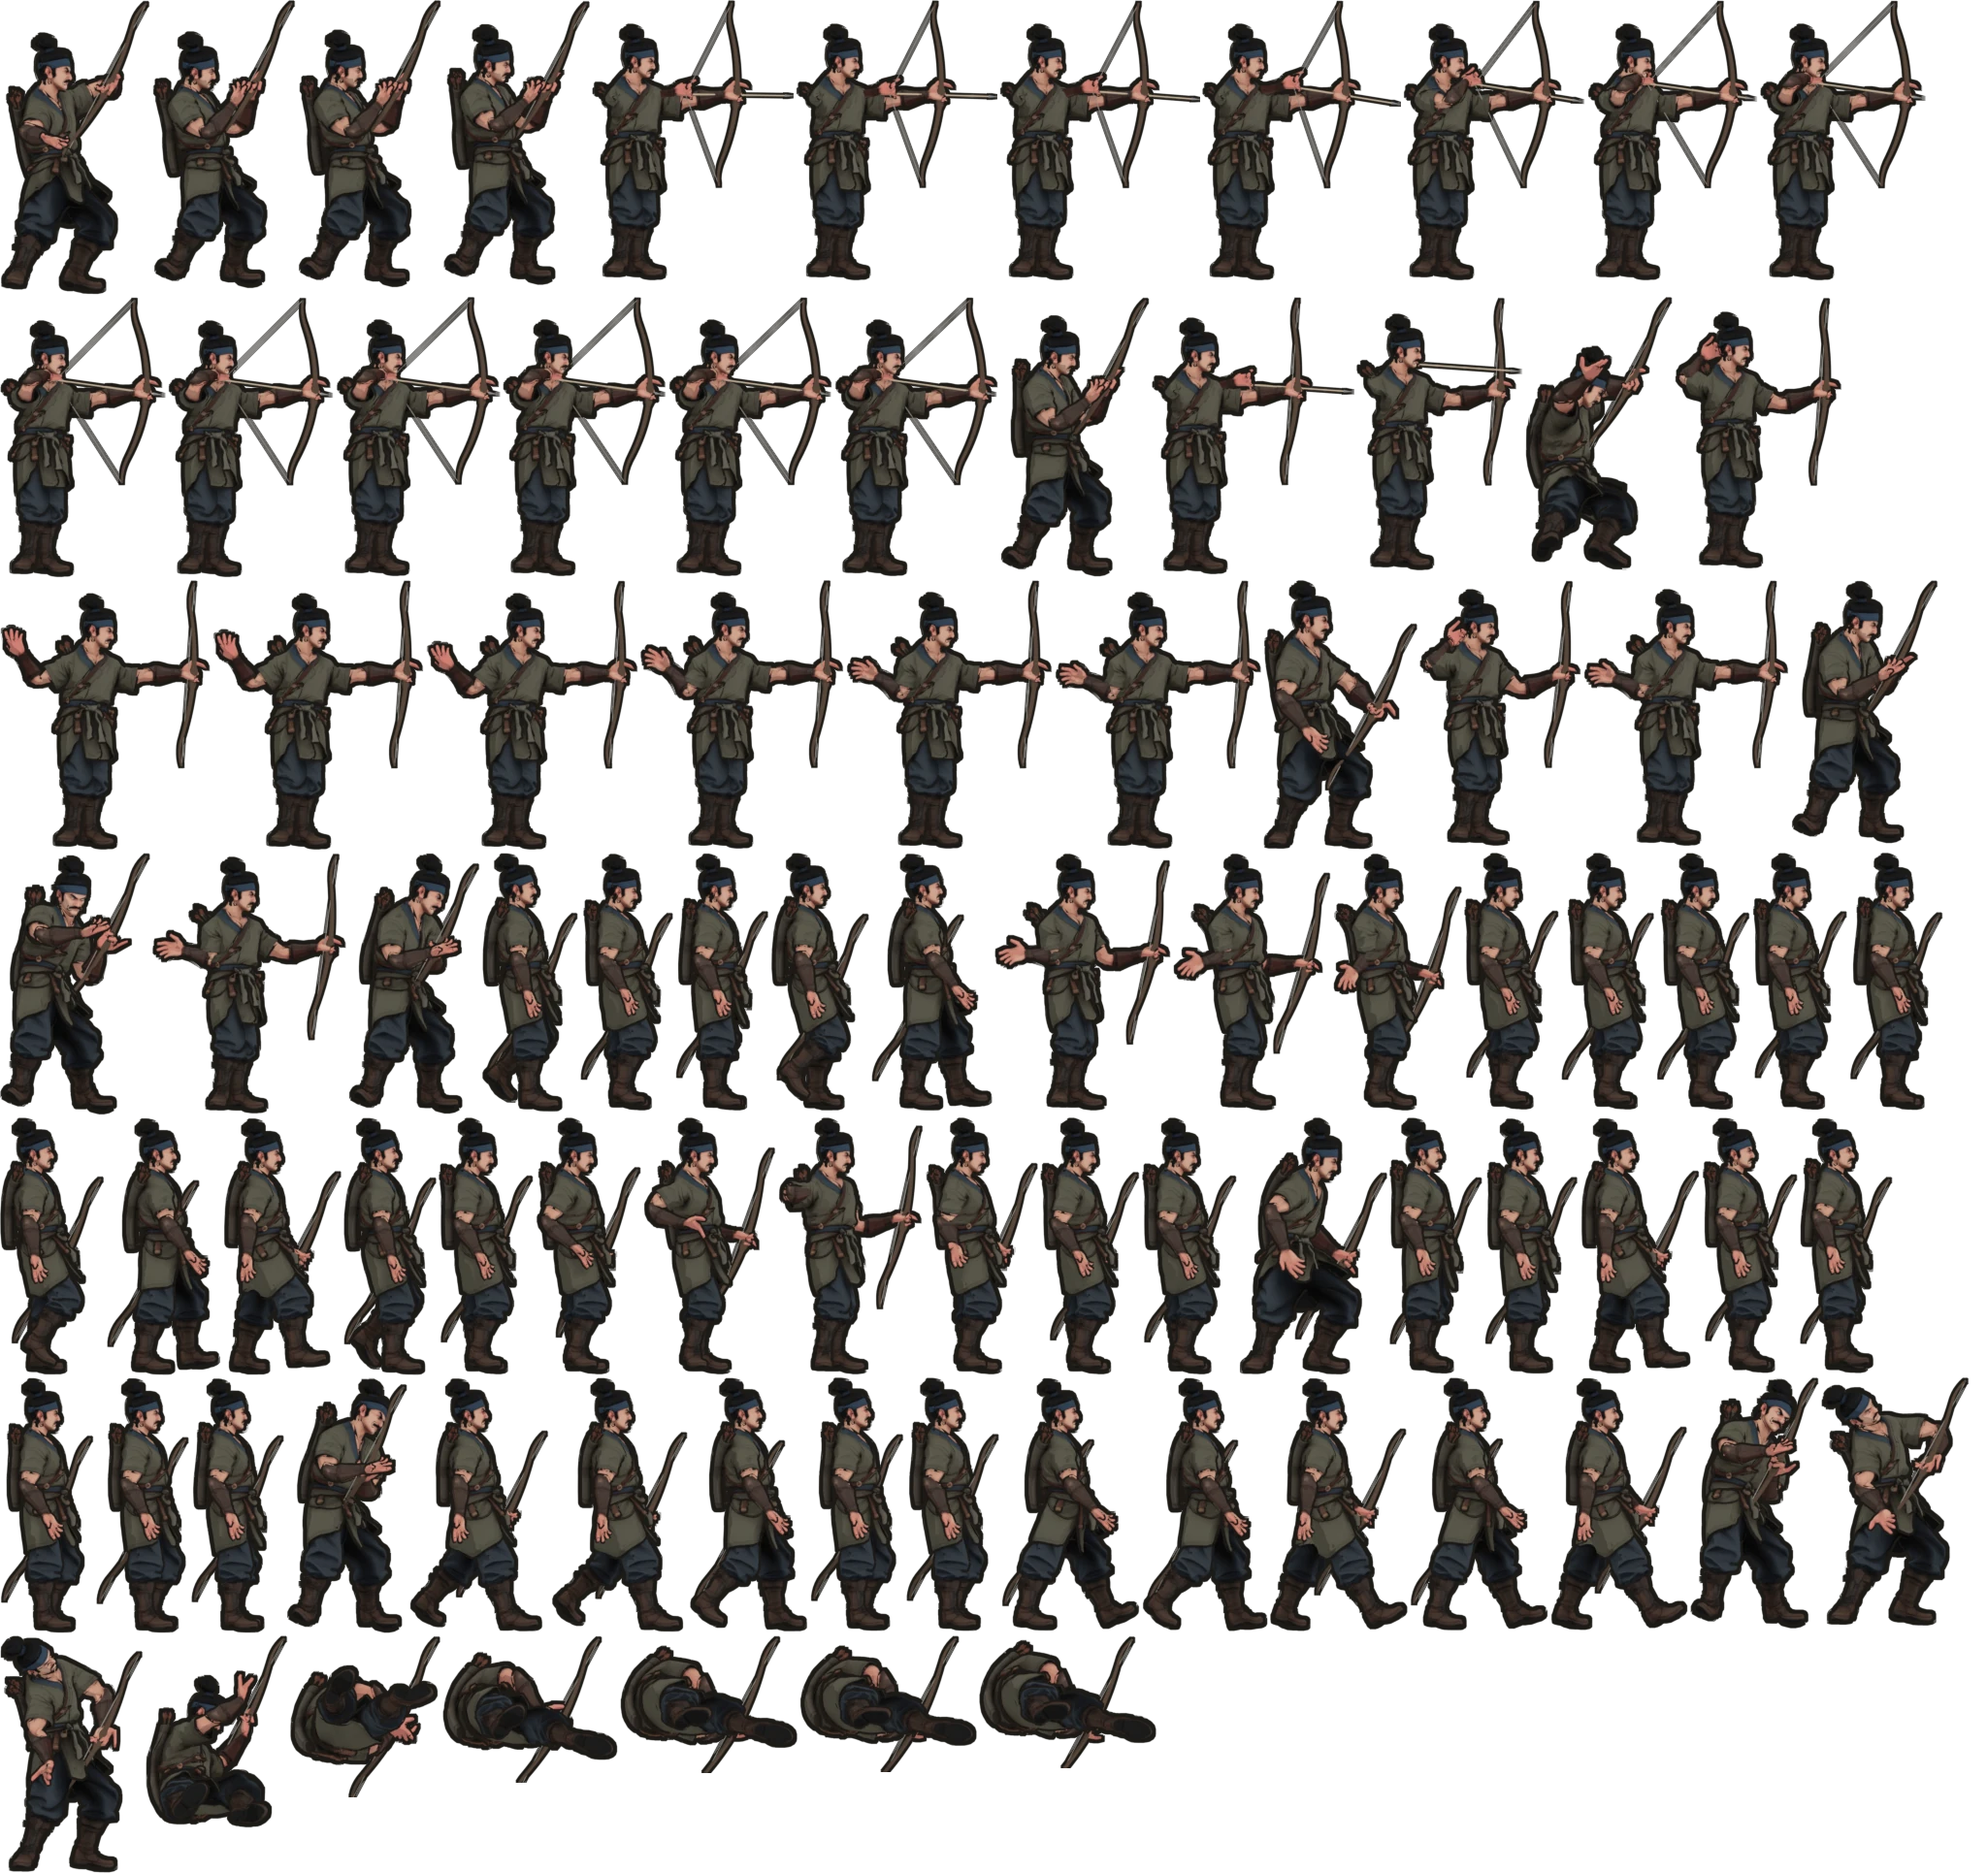
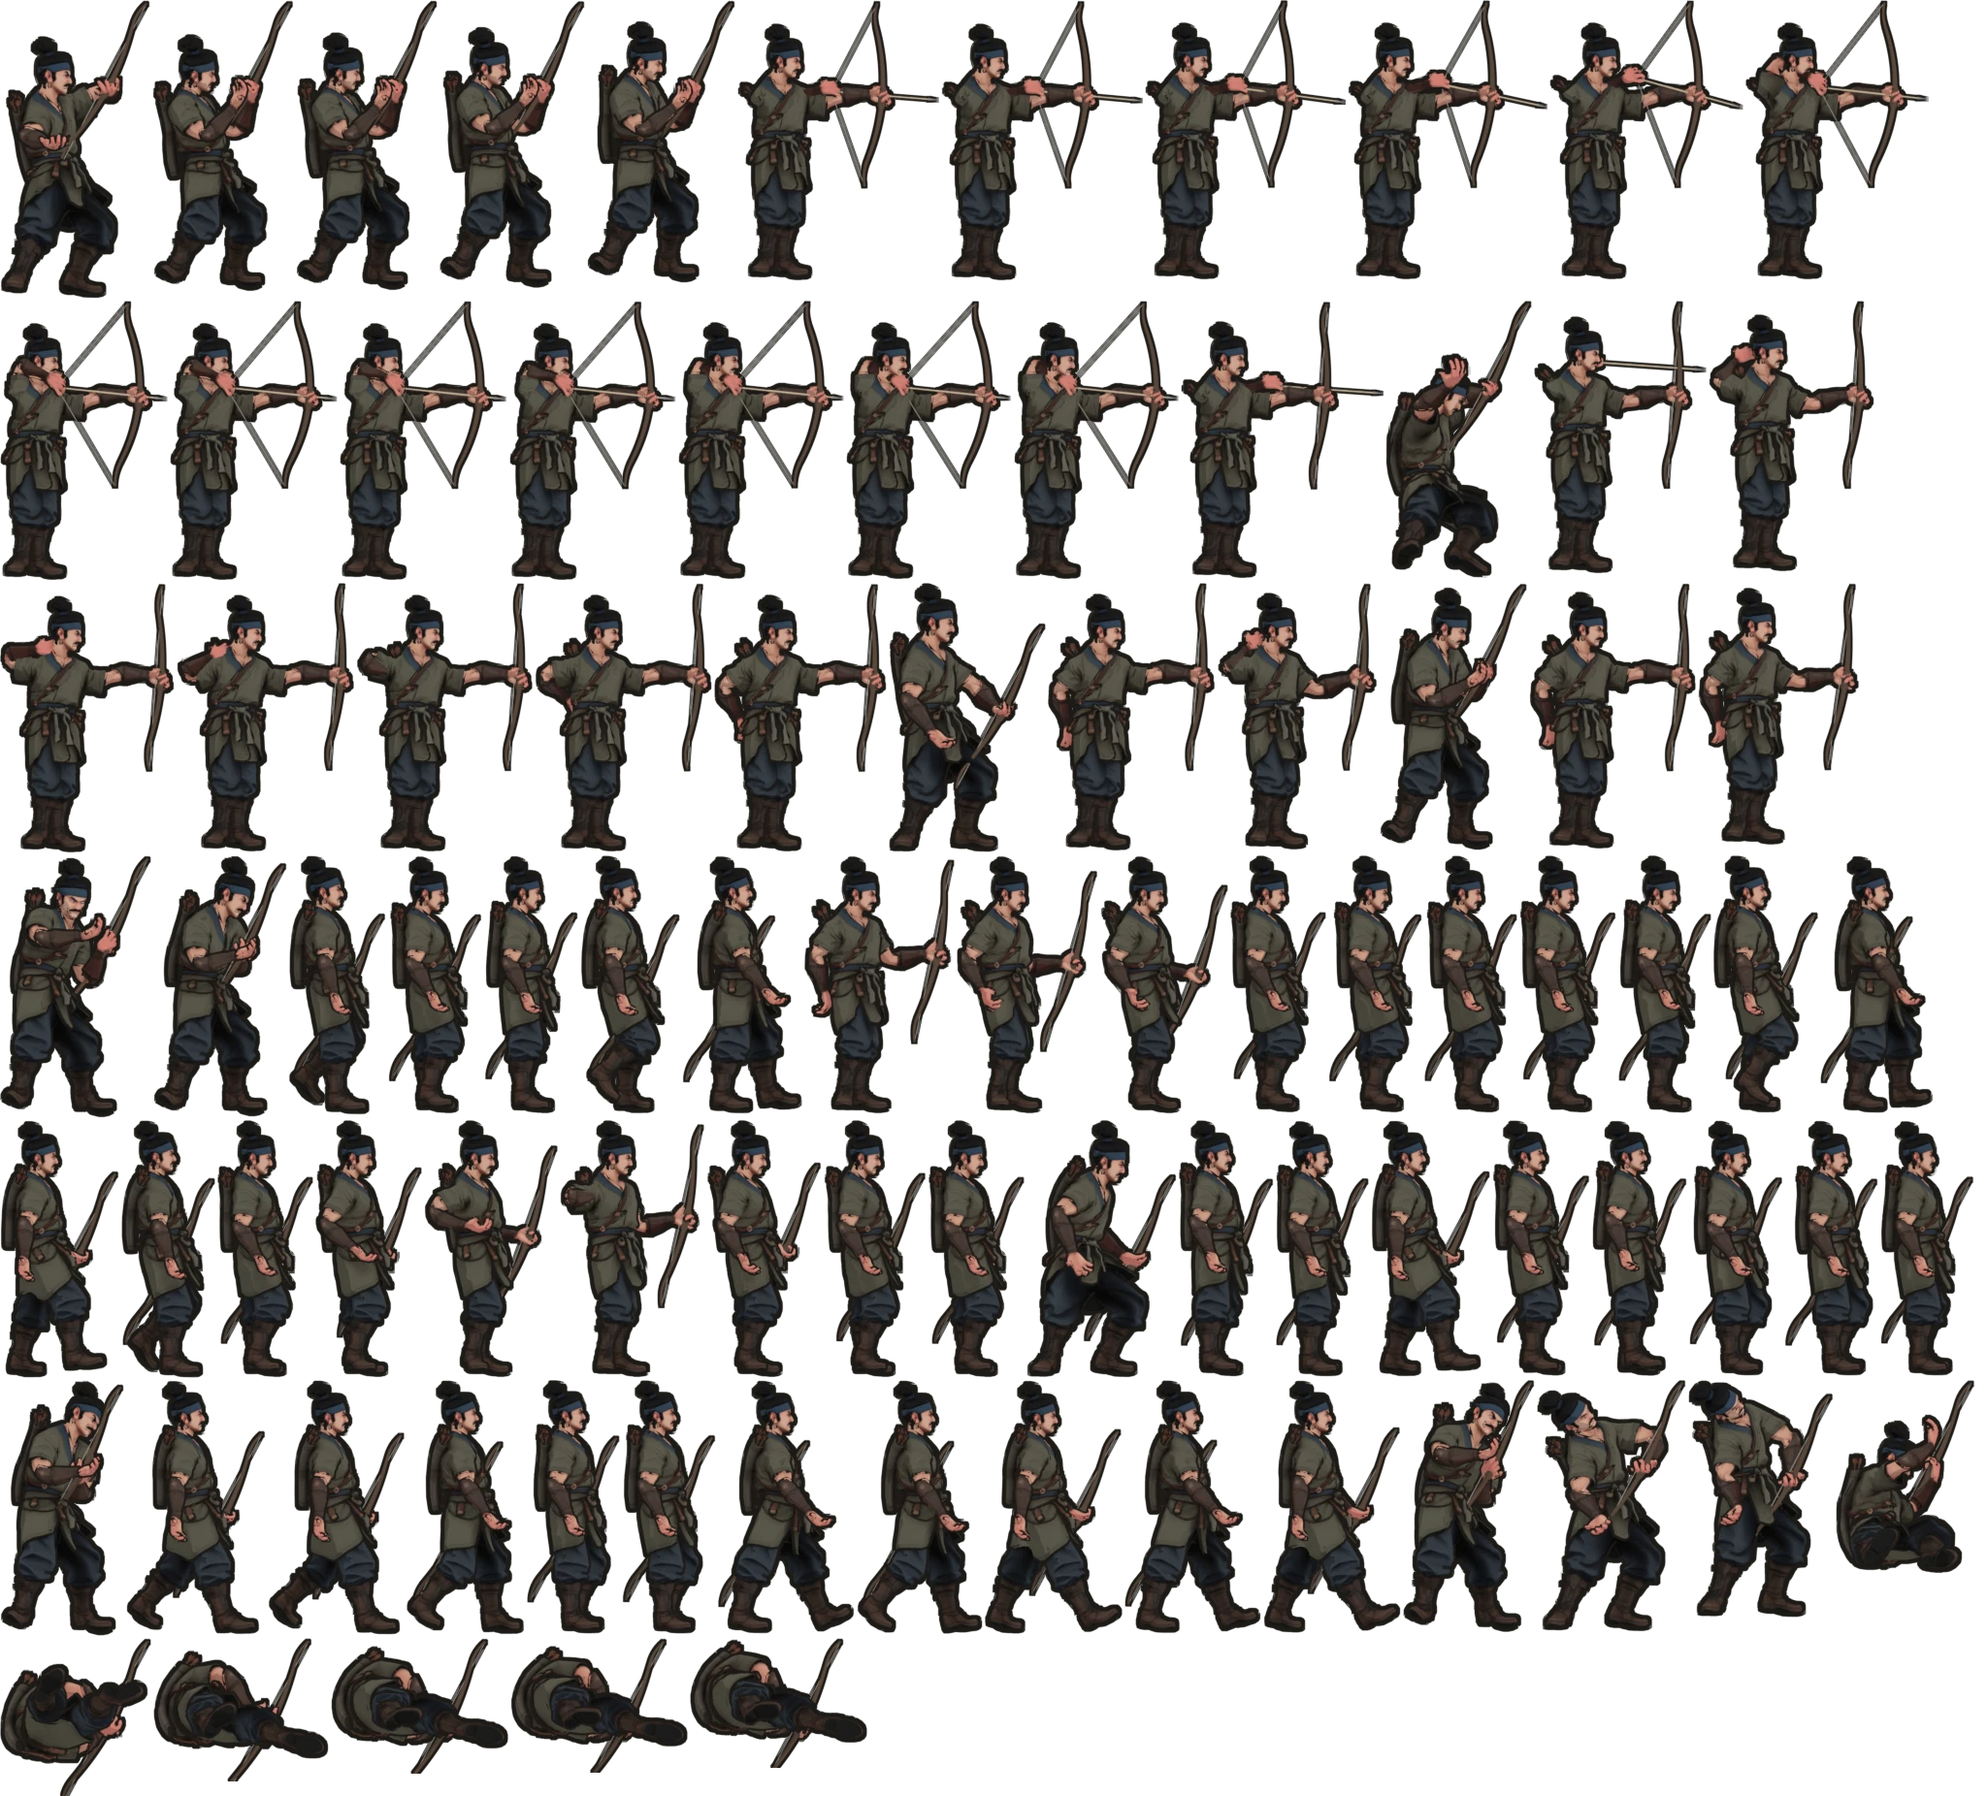
Archer 3D: bow hand wraps the grip, drawing elbow sits behind in line with the arrow
Finger curl direction was reversed; hand() now rolls the hand by palm direction
before curling, so the bow hand's fingers close around the upright grip. The
drawing elbow's IK pole moves behind the archer, and a recovery key after the
release lets the hand drop back naturally.

diff --git a/art/archer3d/blender/render.py b/art/archer3d/blender/render.py
@@ -132,15 +132,15 @@ print('H', round(H, 3), 'hand', round((wpos('L_Hand', True) - wpos('L_Hand')).le
 
 
 def fist(side):
-    h = wpos(f'{side}_Hand')
-    return h + (wpos(f'{side}_Hand', True) - h).normalized() * 0.04 * H
+    """The hollow of the hand: halfway from the knuckles to the fingertips (closed, inside the fist)."""
+    return (wpos(f'{side}_Fingers1') + wpos(f'{side}_Fingers2', True)) / 2
 
 
-# Tripo's hands are open and its arms keep their roll. Closed, the bow hand already wraps the
-# grip thumb up; the drawing hand turns its thumb under the jaw, its palm to the neck. The
-# target leans down and ahead, so it is the thumb ahead when the arm hangs.
-THUMB = Vector((1, 0, -1))
-SIGN = {'L': 1, 'R': -1}  # the palm faces the hand bone's +x on the left, -x on the right
+# Tripo's hands are open and its arms keep their roll. The bow hand, aiming, turns its palm to
+# the archer's front so the fingers close round the upright grip, thumb on top; the drawing
+# hand turns its palm to the neck, the back of the hand to the camera.
+PALM = {'L': Vector((0, -1, 0)), 'R': Vector((0, 1, 0))}
+SIGN = {'L': -1, 'R': 1}  # the palm faces the hand bone's -x on the left, +x on the right
 TWISTED = [f'{s}_{b}' for s in 'LR' for b in ('ForearmTwist01', 'ForearmTwist02', 'Fingers1', 'Fingers2')]
 
 
@@ -149,11 +149,11 @@ def axis(side, i):
 
 
 def hand(side, turn, curl):
-    """Roll the forearm by `turn` of the way to THUMB (spread along the twist bones), then
+    """Roll the forearm by `turn` of the way to PALM (spread along the twist bones), then
     close the fingers by `curl` degrees at each joint."""
     e, w = wpos(f'{side}_Forearm'), wpos(f'{side}_Hand')
     a = (w - e).normalized()
-    n, d = axis(side, 2), THUMB
+    n, d = SIGN[side] * axis(side, 0), PALM[side]
     n, d = (n - a * n.dot(a)).normalized(), (d - a * d.dot(a)).normalized()
     ang = math.atan2(n.cross(d).dot(a), n.dot(d)) * turn
     rot_about(P[f'{side}_Forearm'], Quaternion(a, ang), e)
@@ -179,13 +179,13 @@ SHOT = [
     (8, dict(rc=80, yaw=-70, head=62, lean=0, wl=1, wr=1, L=('Lsh', (0.29, 0, 0)), Lp=('Lsh', (0, 0, -1)),
              R=('nock', (0, 0, 0)), Rp=('Rsh', (-0.2, 0, -1)))),
     (14, dict(rc=80, yaw=-72, head=64, lean=-2, wl=1, wr=1, L=('Lsh', (0.29, 0, 0)), Lp=('Lsh', (0, 0, -1)),
-              R=('cheek', (0, 0, 0)), Rp=('Rsh', (-0.5, -1, 0)))),
+              R=('cheek', (0, 0, 0)), Rp=('Rsh', (-1, 0.2, 0.05)))),
     (20, dict(rc=80, yaw=-74, head=64, lean=-4, wl=1, wr=1, L=('Lsh', (0.29, 0, 0)), Lp=('Lsh', (0, 0, -1)),
-              R=('cheek', (-0.02, 0, 0)), Rp=('Rsh', (-0.6, -1, 0)))),
-    (21, dict(rc=15, yaw=-74, head=64, lean=-6, wl=1, wr=1, L=('Lsh', (0.30, 0, -0.03)), Lp=('Lsh', (0, 0, -1)),
-              R=('Rsh', (-0.17, 0, 0.06)), Rp=('Rsh', (0, 0, -1)))),
-    (26, dict(rc=25, yaw=-72, head=60, lean=-2, wl=1, wr=1, L=('Lsh', (0.28, 0, -0.04)), Lp=('Lsh', (0, 0, -1)),
-              R=('Rsh', (-0.15, 0, -0.08)), Rp=('Rsh', (0, 0, -1)))),
+              R=('cheek', (-0.02, 0, 0)), Rp=('Rsh', (-1, 0.2, 0.05)))),
+    (21, dict(rc=40, yaw=-74, head=64, lean=-6, wl=1, wr=1, L=('Lsh', (0.30, 0, -0.03)), Lp=('Lsh', (0, 0, -1)),
+              R=('cheek', (-0.12, 0.02, 0)), Rp=('Rsh', (-1, 0.2, 0)))),
+    (26, dict(rc=60, yaw=-72, head=60, lean=-2, wl=1, wr=1, L=('Lsh', (0.28, 0, -0.04)), Lp=('Lsh', (0, 0, -1)),
+              R=('Rsh', (-0.06, 0.03, -0.24)), Rp=('Rsh', (-0.6, 0.2, -1)))),
     (34, dict(rc=25, yaw=0, head=0, lean=0, wl=0, wr=0)),
 ]
 GRIP = 85  # the bow hand's fingers, closed round the grip, in degrees per joint
@@ -408,11 +408,17 @@ co.location = GROUND + Vector((0, -5, 0.6 * H))
 co.rotation_euler = (math.radians(90), 0, 0)
 sc.camera = co
 os.makedirs(OUT, exist_ok=True)
+# debugging close-ups: ARCHER_FOCUS=<bone> frames that bone at a tenth of the scale, seen
+# from ARCHER_VIEW degrees round Z (0 is the game camera); ARCHER_TICKS=a,b,.. picks shot ticks
+FOCUS = os.environ.get('ARCHER_FOCUS')
+VIEW = math.radians(float(os.environ.get('ARCHER_VIEW', '0')))
 
 if CLIP == 'shoot':
     base = {pb.name: pb.matrix_basis.copy() for pb in P}
     arm.animation_data.action = None
     frames = range(0, SHOT[-1][0] + 1)
+    if os.environ.get('ARCHER_TICKS'):
+        frames = [int(t) for t in os.environ['ARCHER_TICKS'].split(',')]
 else:
     frames = [f0 + round((f1 - f0) * i / max(1, NFRAMES - 1)) for i in range(NFRAMES)]
 for i, f in enumerate(frames):
@@ -422,7 +428,7 @@ for i, f in enumerate(frames):
         upd()
         pose_shot(f)
         a, b, t = segment(f)
-        hand('L', 0.0, GRIP)
+        hand('L', lerp(a['wl'], b['wl'], t), GRIP)
         hand('R', lerp(a['wr'], b['wr'], t), lerp(a['rc'], b['rc'], t))
         draw_bow(f, lerp(a['wl'], b['wl'], t))
     else:
@@ -433,6 +439,12 @@ for i, f in enumerate(frames):
         hand('L', 0.0, GRIP)
         hand('R', 0.0, 25)
         draw_bow(f, 0.0)
+    if FOCUS:
+        c = wpos(FOCUS)
+        cam.ortho_scale = 0.25 * H
+        cam.clip_start = 5 - 0.12 * H
+        co.rotation_euler = (math.radians(90), 0, VIEW)
+        co.location = c + Quaternion(Z, VIEW) @ Vector((0, -5, 0))
     sc.render.filepath = os.path.join(OUT, f'{i:02d}.png')
     bpy.ops.render.render(write_still=True)
 print('frames', len(frames))

diff --git a/art/archer3d/README.md b/art/archer3d/README.md
@@ -17,6 +17,8 @@ python art/archer3d/blender/pack.py <tmp> client/public/art/archer3d   # atlas.w
   反向外壳描边（Solidify 翻法线 + 背面剔除，墨色）；`pack.py` 再沿外轮廓补 2px 墨边，补上网格接缝处的断线。
   Blender 5.2 的 EEVEE 下 Freestyle 画不出线，别用。预览：`model/preview/v3_ink.png`。
 - 手：Tripo 绑骨没有手指骨，手是张开的平板。`render.py` 在编辑模式下给每只手加两节手指骨（按沿手轴的投影切权重），
-  握弓手只弯指（GRIP 85），拉弦手把前臂扭向拇指朝前下再弯指（射箭关键帧里的 `rc`），扭转分摊到前臂两节 twist 骨上。
-  预览：`model/preview/v4_hands.png`。
+  `hand(side, turn, curl)` 先按掌心方向转手（扭转分摊到前臂两节 twist 骨上）再弯指；拉弦手的弯指是射箭关键帧里的 `rc`。
+- 手指方向：手掌朝骨骼左 -x、右 +x（拇指在掌侧）；v4（`model/preview/v4_hands.png`）弄反了，手指往手背弯，握不住弓。
+  握弓手瞄准时把掌心转向身前，四指竖着绕过弓把；拉弦手掌心朝脖子；拉满时手肘抬在身后、和箭一线。
+  调试特写：`ARCHER_FOCUS=L_Hand ARCHER_VIEW=90 ARCHER_TICKS=8,20`（骨骼、镜头绕 Z 的角度、射箭帧）。预览：`model/preview/v5_grip.png`。
 - 积分：试验用掉 150，余 190（v2.5 绑骨重定向报错 1004，白花 25；人形要用绑骨 v1.0）。
